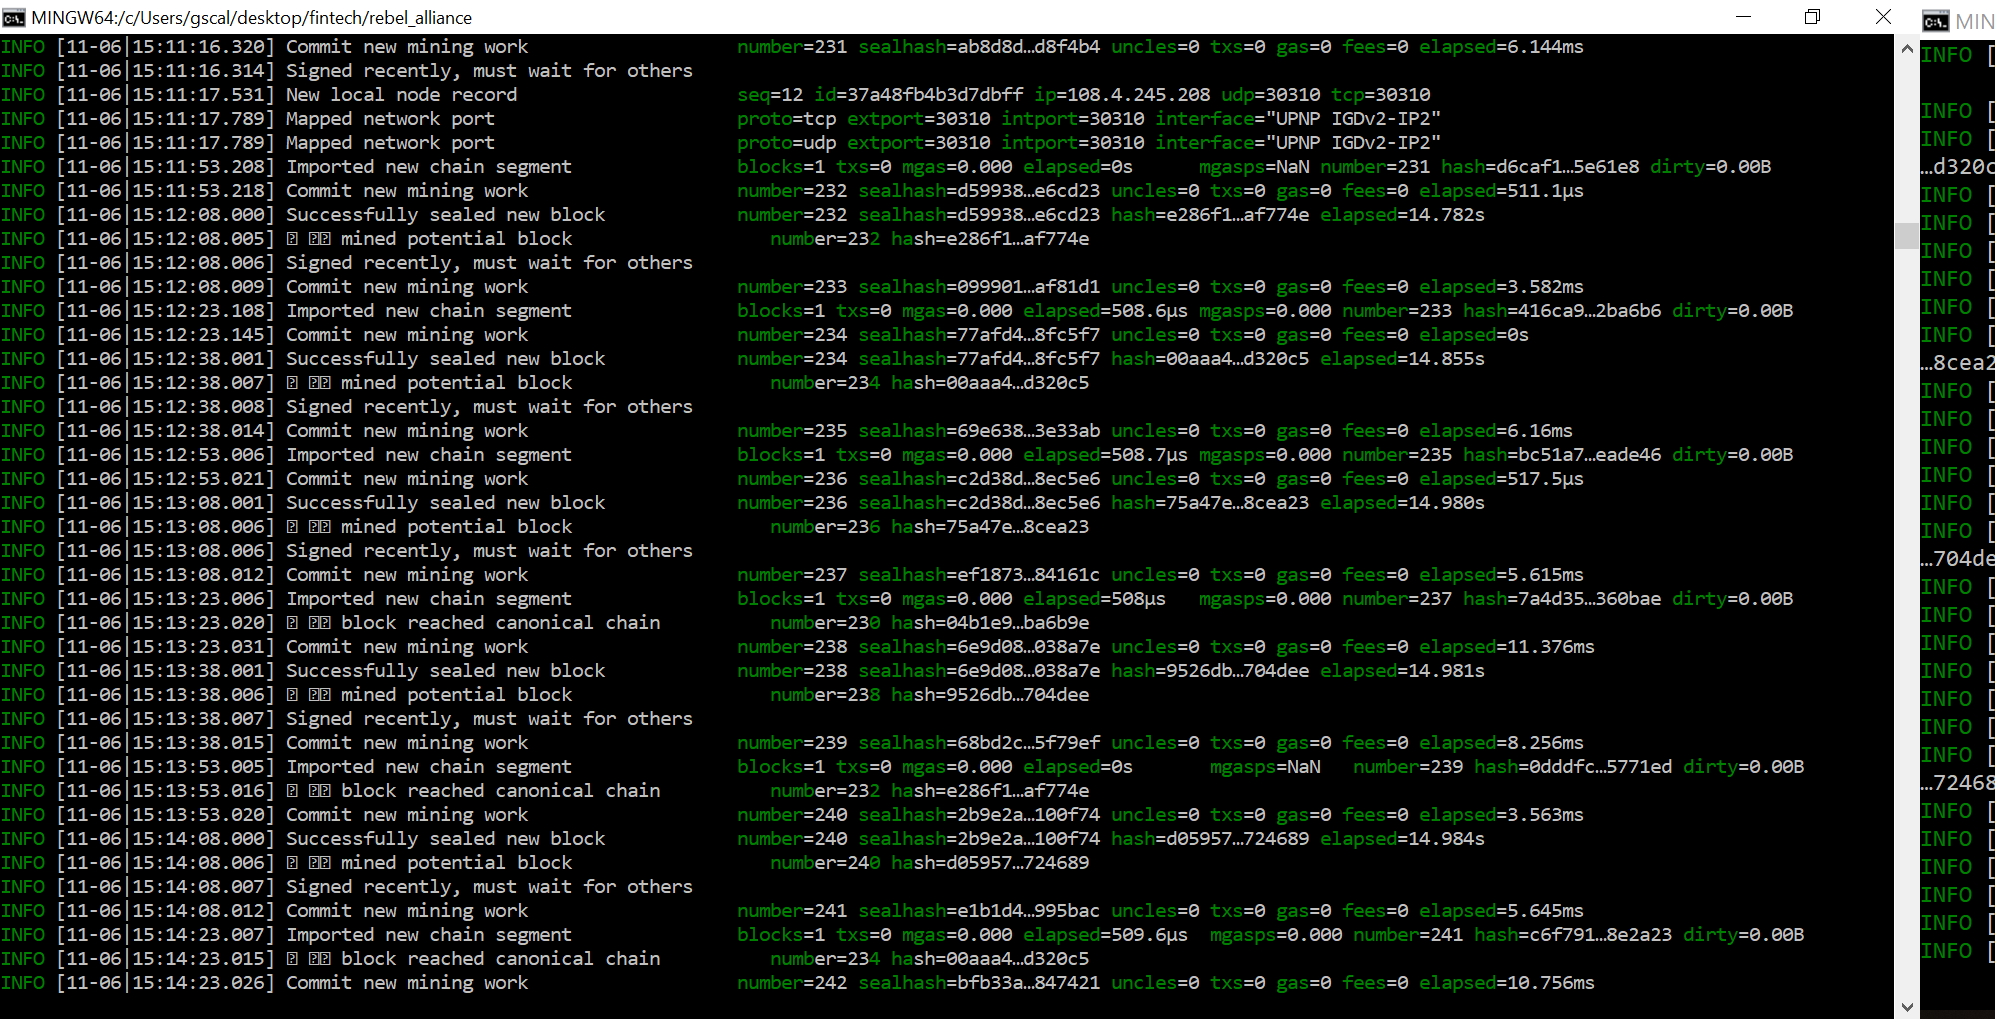
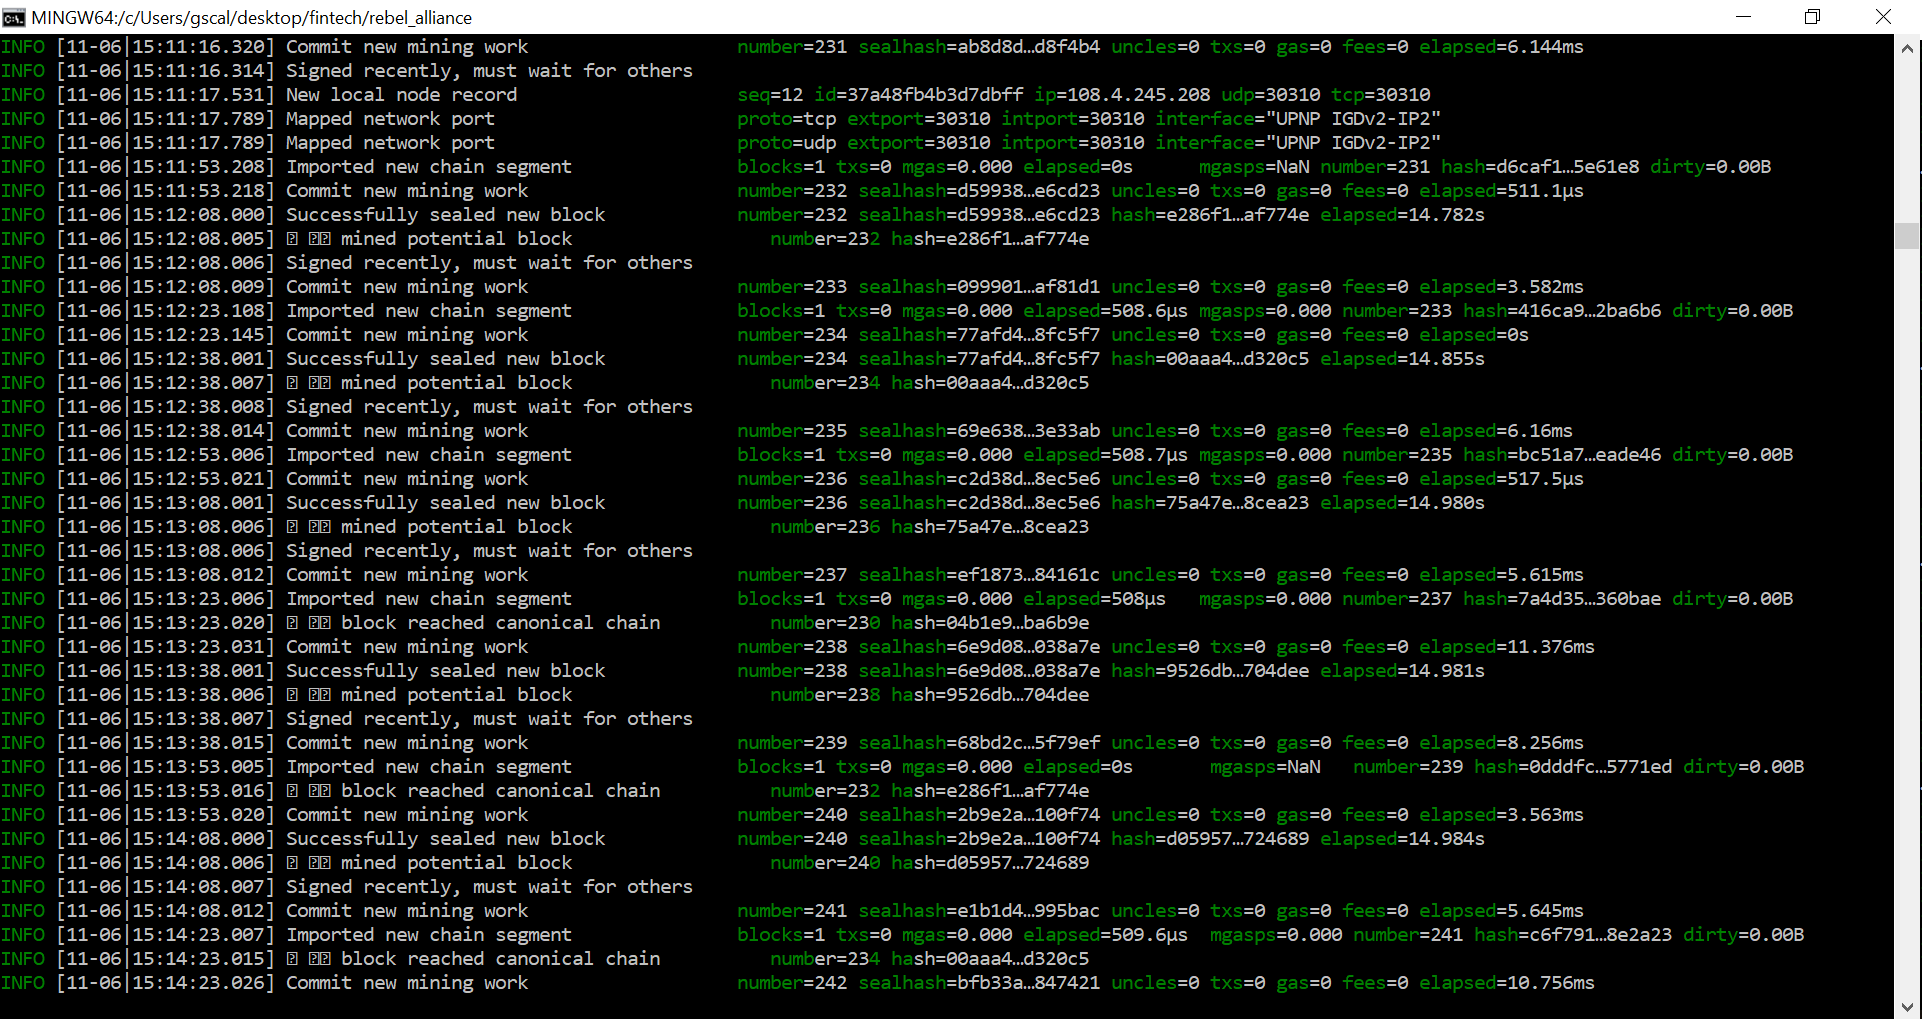
added images

Changed region(s): [[0.0, 0.0, 1.0, 1.0]]

diff --git a/README.md b/README.md
@@ -8,6 +8,7 @@ We will use this blockchain technology to communicate with our different bases a
 ## Required Software
 
 * Blockchain tools, Geth & Puppeth (all included in this message)
+* MyCrypto
 * Windows/Mac running Unix based software such as Terminal or GitBash
 
 ## Initial Commands
@@ -59,7 +60,7 @@ All Jedi Masters must create and initialize new nodes in their respective chains
 Please see these images for reference:
 
 * ![window_one](/screenshots/window_one.PNG)
-* ![window_two](/screenshots/window_two.png)
+* ![window_two](/screenshots/window_two.PNG)
 
 #### Definitions
 
